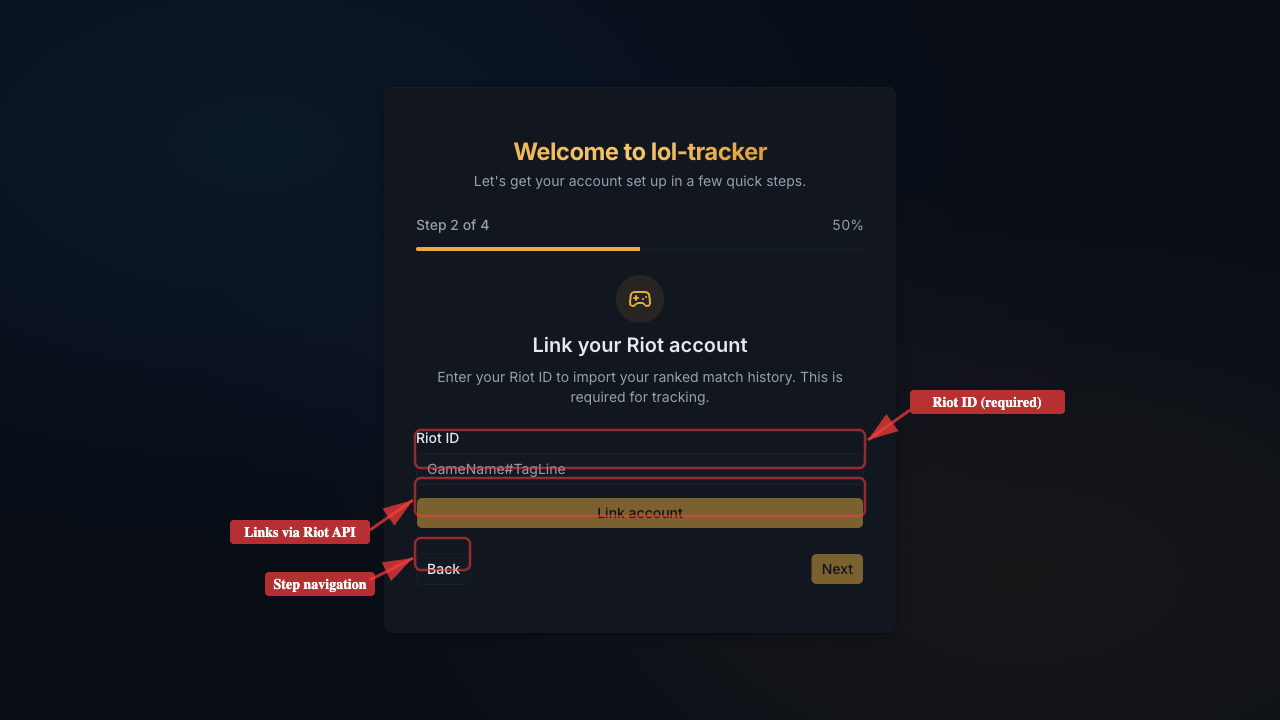
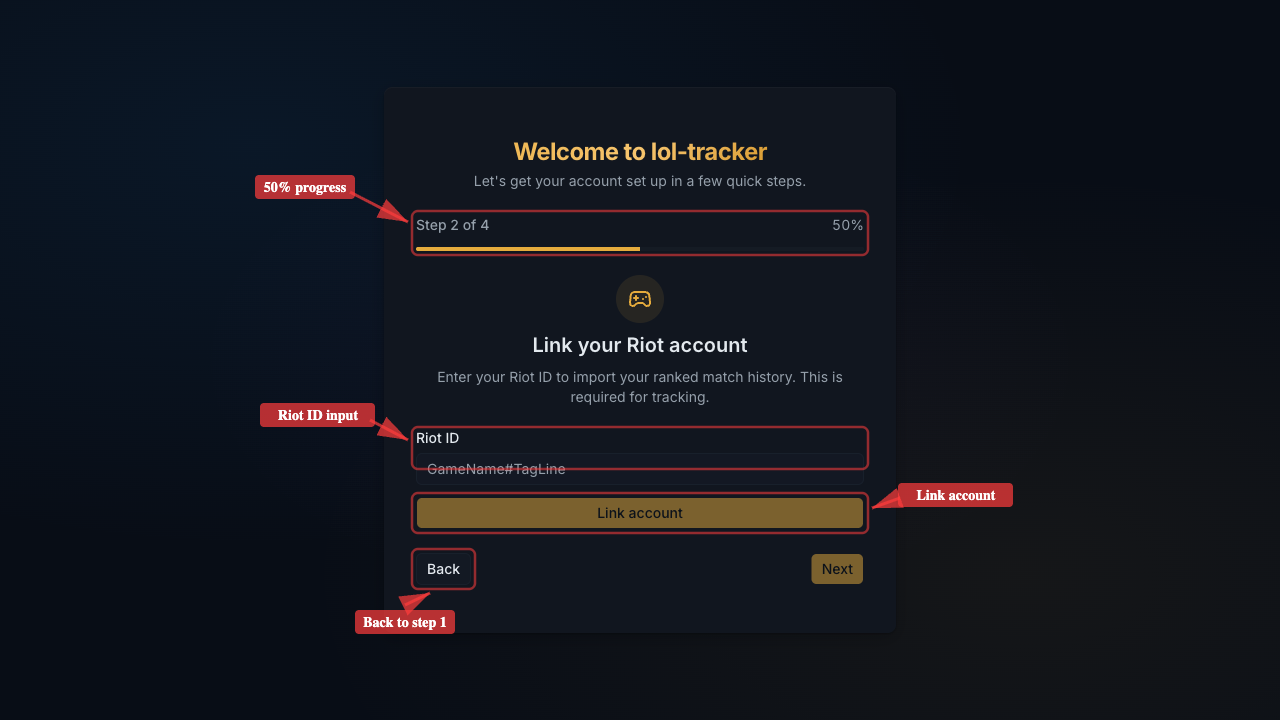
fix: flaky E2E test with retry-click pattern and correct annotation screenshots
- Fix flaky 'cycle action item status' test (#74) using expect().toPass()
  retry pattern that only re-clicks if data-status is still 'pending',
  avoiding over-cycling past in_progress on slow CI runners
- Re-capture annotation screenshots with correct SVG overlay coordinates
  so highlight rectangles and arrows align precisely with UI elements

Changed region(s): [[0.1562, 0.5194, 0.8438, 0.8861], [0.2812, 0.275, 0.6875, 0.3667], [0.1875, 0.2444, 0.2812, 0.275]]

diff --git a/tests/e2e/coaching-flow.spec.ts b/tests/e2e/coaching-flow.spec.ts
@@ -202,13 +202,21 @@ test.describe("Coaching flow", () => {
     // on slow CI runners, causing the test to flake (#95).
     await expect(firstActionItemRow).toHaveAttribute("data-hydrated", "true");
 
-    // Click the cycle button — optimistic state updates the UI immediately
+    // Click the cycle button with retry — even after the hydration attribute is
+    // set, the browser event loop may not have fully wired handlers on slow CI
+    // runners. We only re-click if the status hasn't changed (the previous
+    // click was swallowed). This avoids over-cycling past in_progress (#74).
     const cycleButton = firstActionItemRow.locator("button").first();
     await expect(cycleButton).toBeVisible();
-    await cycleButton.click();
-
-    // The status should cycle from "pending" to "in_progress" (optimistic update)
-    await expect(firstActionItemRow).toHaveAttribute("data-status", "in_progress");
+    await expect(async () => {
+      const currentStatus = await firstActionItemRow.getAttribute("data-status");
+      if (currentStatus === "pending") {
+        await cycleButton.click();
+      }
+      await expect(firstActionItemRow).toHaveAttribute("data-status", "in_progress", {
+        timeout: 2_000,
+      });
+    }).toPass({ timeout: 15_000, intervals: [500, 1_000, 2_000] });
   });
 
   test("delete the new coaching session", async ({ page }) => {
